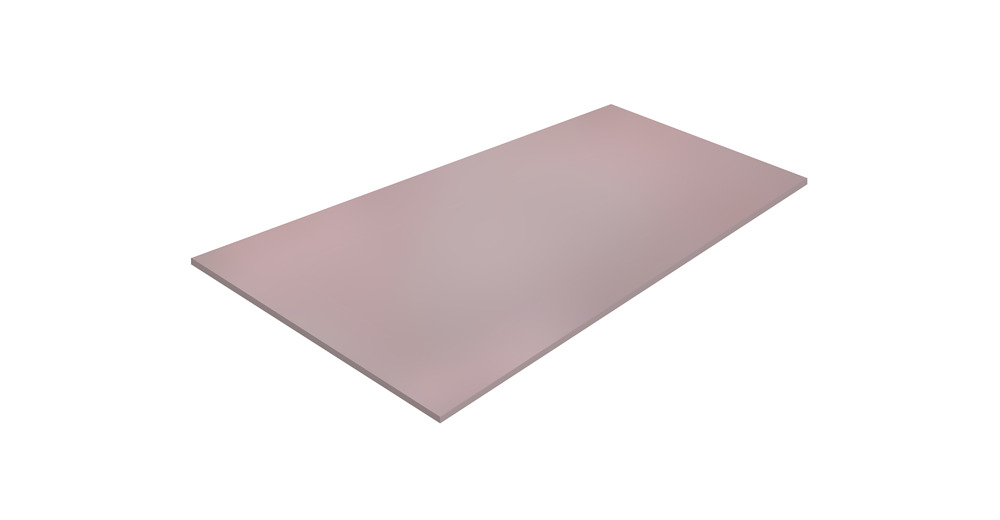
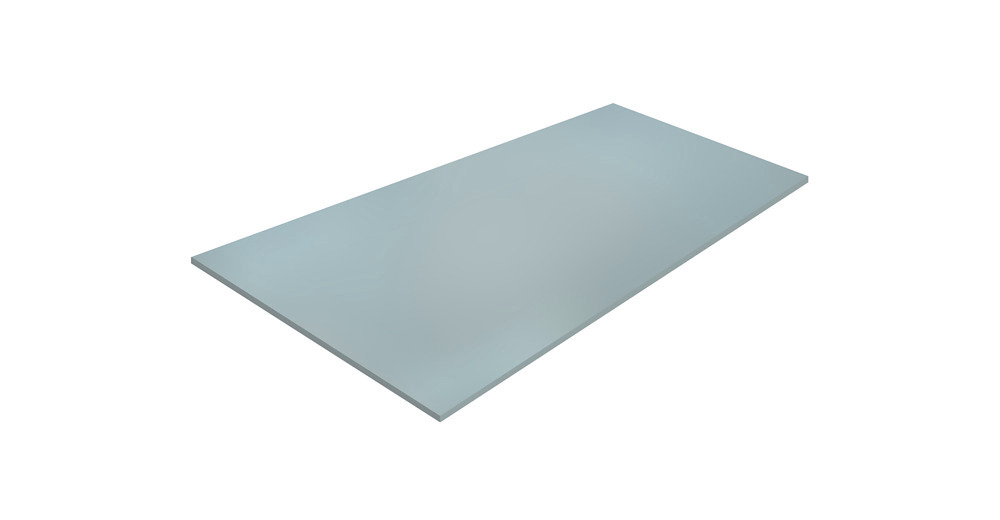
Влагоогнестойкий гипсокартон: голубоватый цвет вместо розового (по слову завода), ящик фото hgz-photos-3
Раньше у листа id 49 был тот же розовый рисунок, что у огнестойкого. Завод сообщил,
что влагоогнестойкий лист голубоватый. Рисунок взят с влагостойкого листа со
сдвигом оттенка в голубой; точный оттенок по слову «голубоватый» подобран на глаз.
Код не менялся, поднят только PHOTOS в sw.js.

diff --git a/sw.js b/sw.js
@@ -5,7 +5,7 @@ const CACHE = "hgz-cache-v113";
 // около 1,3 МБ заново у каждого клиента. Заменили фото под тем же именем —
 // поднимите это число (при этом версию кода поднимать не нужно): старый ящик
 // удалится, фото скачаются заново. Проверяет tools/check.mjs.
-const PHOTOS = "hgz-photos-2";
+const PHOTOS = "hgz-photos-3";
 
 // Адреса с ?v= должны совпадать с index.html: иначе браузер сохранит одно,
 // а страница попросит другое. Версия поднимается при правках style.css,
